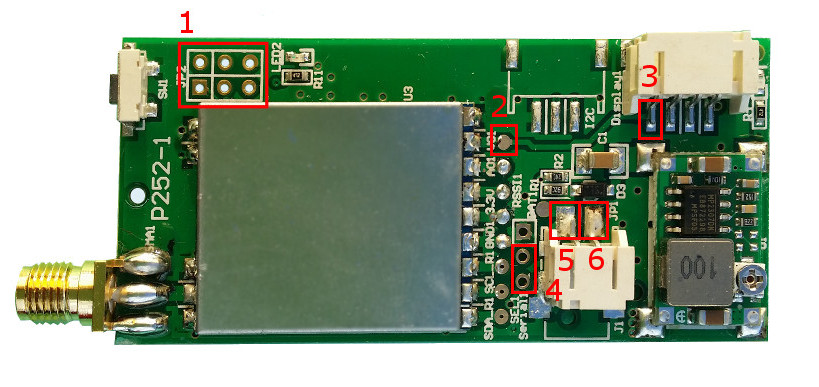
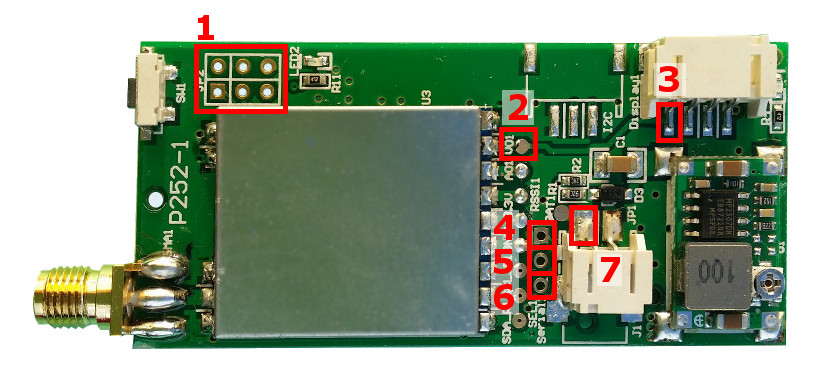
Readme changes

diff --git a/README.md b/README.md
@@ -63,10 +63,10 @@ If you want to build the firmware yourself, you can do so. Here is a link to the
 Keep the wires as short as possible to avoid interference on the video and serial lines.
 * VIN to 2
 * VOUT to 3
-* GND to 6
-* VCC to 5
-* RX to 4 (bottom)
-* TX to 4 (top)
+* GND to 4
+* RX to 5
+* TX to 6
+* VCC to 7
 
 ##Alarm Buzzer
 A 5 volt miniature piezzo buzzer is used as a low battery alarm.
